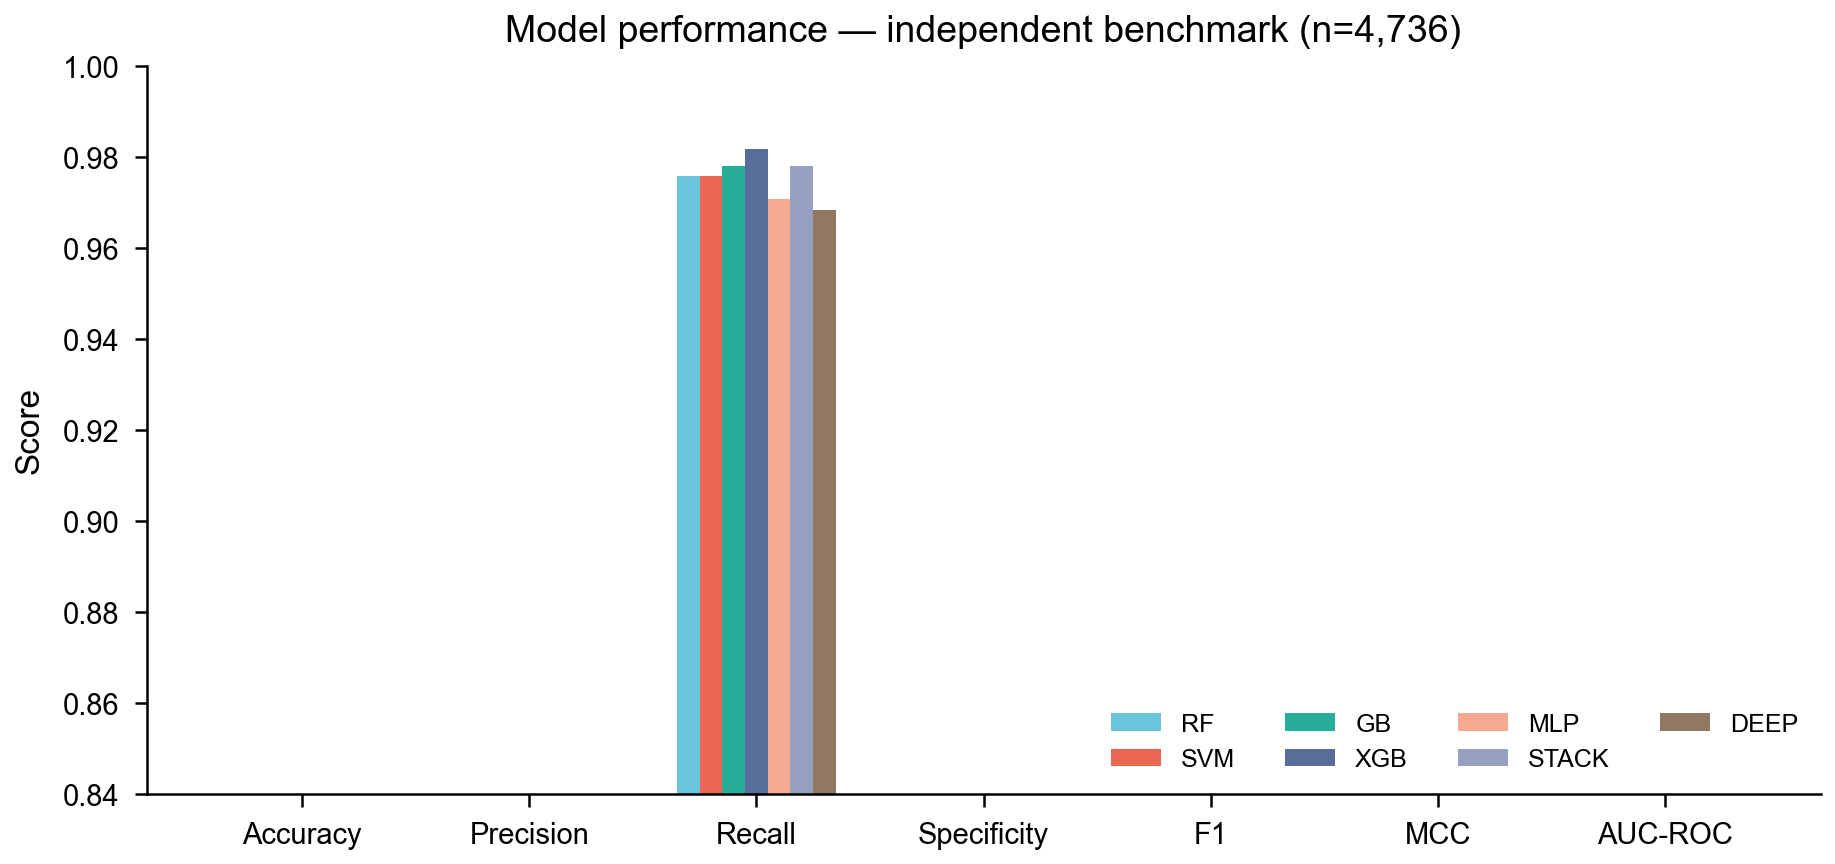
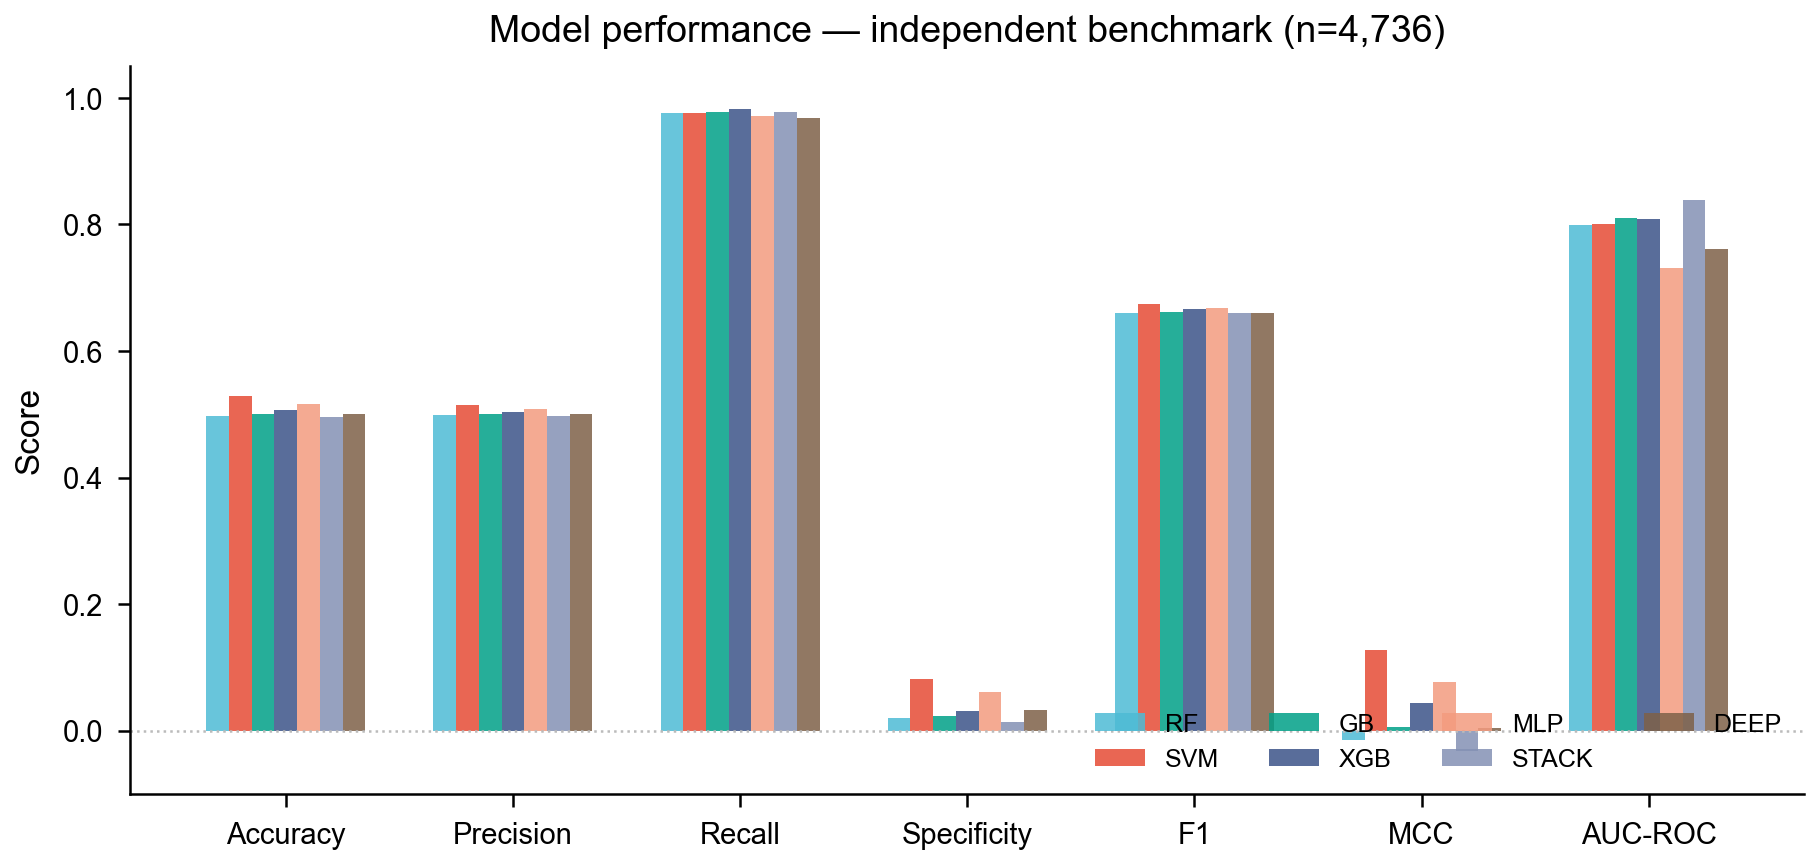
fix: expand y-axis range in benchmark metrics figure

diff --git a/model_training/benchmark.py b/model_training/benchmark.py
@@ -330,8 +330,9 @@ def fig_bench_metrics(results):
 
     ax.set_xticks(x)
     ax.set_xticklabels(labels)
-    ax.set_ylim(0.84, 1.00)
-    ax.yaxis.set_major_locator(mticker.MultipleLocator(0.02))
+    ax.set_ylim(-0.10, 1.05)
+    ax.yaxis.set_major_locator(mticker.MultipleLocator(0.20))
+    ax.axhline(0, color="#bbbbbb", linewidth=0.6, linestyle=":")
     ax.set_ylabel("Score")
     ax.set_title("Model performance — independent benchmark (n=4,736)")
     ax.legend(loc="lower right", ncol=4, fontsize=6)
